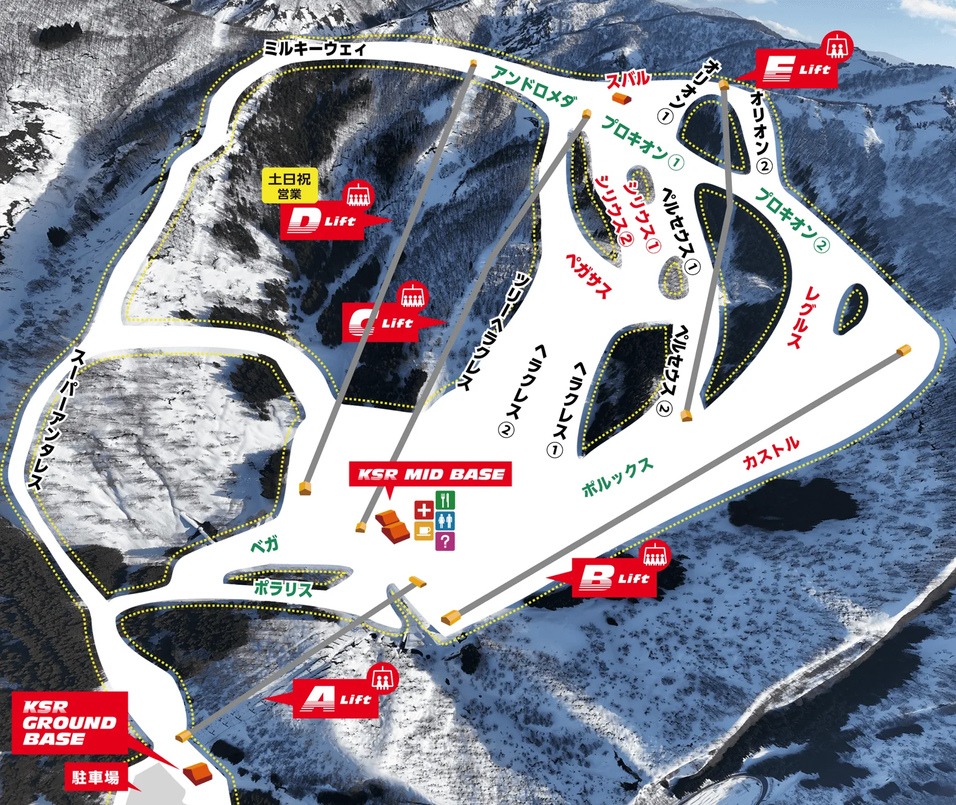
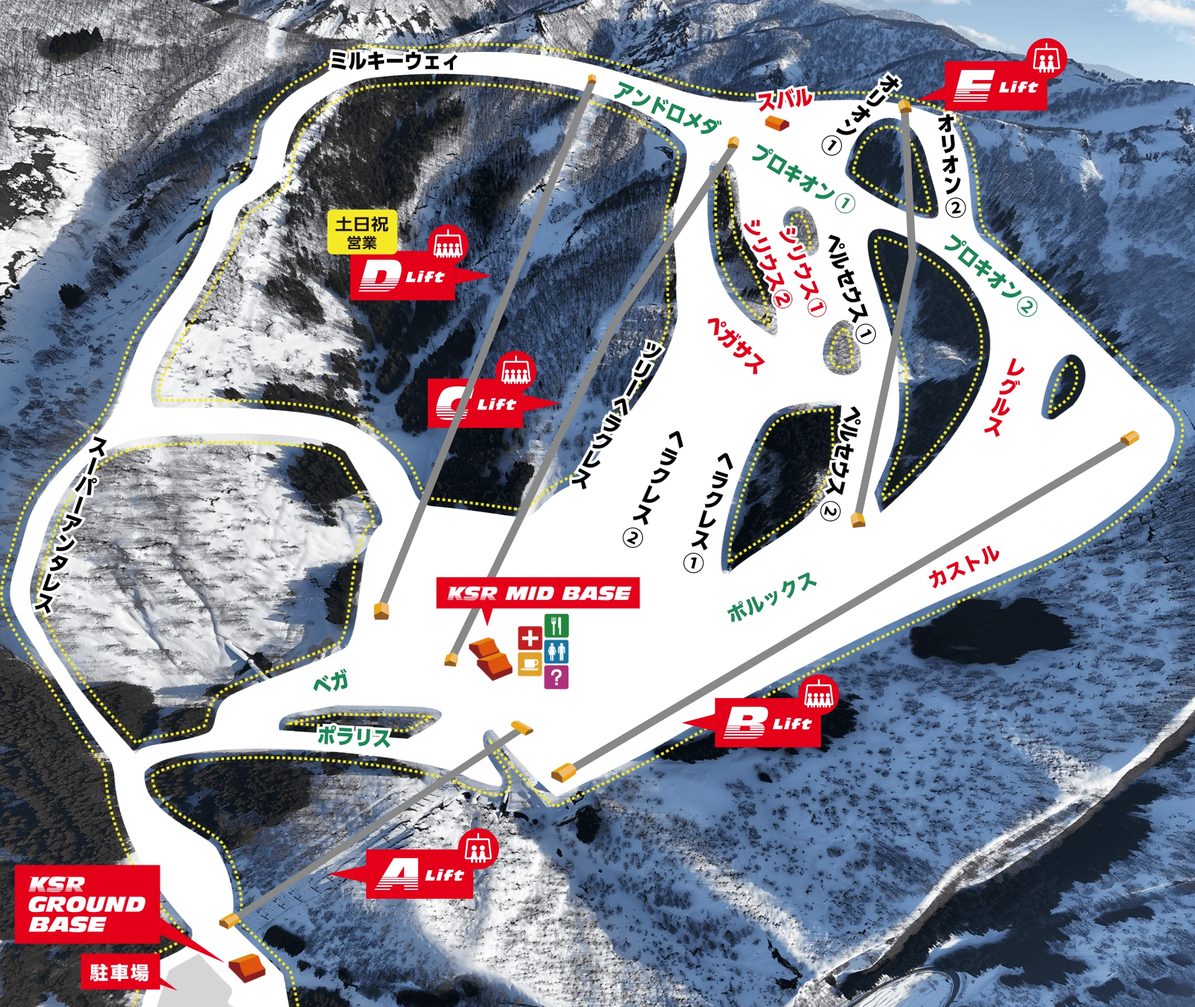
Resort maps: full-size (tap-to-open) course maps at official native resolution — original JPGs for 岩原/中里/GALA, webp q90 for 石打丸山 2481px, 苗場 PDF@300dpi 3224px, 神立 2000px; 800px thumbs unchanged

Changed region(s): [[0.2812, 0.2181, 0.3125, 0.2493]]

diff --git a/index.html b/index.html
@@ -560,10 +560,10 @@ Jay教練是我們這兩天玩的這麼愉快的大功臣！
           </dl>
           <p class="rs-fit"><span>適合</span>初次上板、希望在寬闊坡面穩定進階的學員與家庭</p>
           <figure class="rs-mapfig">
-            <a class="rs-mapthumb" href="img/maps/iwappara.webp" target="_blank" rel="noopener" aria-label="放大查看 岩原 雪道地圖（另開新視窗）">
+            <a class="rs-mapthumb" href="img/maps/iwappara.jpg" target="_blank" rel="noopener" aria-label="放大查看 岩原 雪道地圖（另開新視窗）">
               <img src="img/maps/iwappara-sm.webp" width="800" height="550" loading="lazy" decoding="async" alt="岩原スキー場 雪道地圖（官方）">
             </a>
-            <figcaption><span>圖片來源：<a href="https://iwa-ppara.com/gelande/" target="_blank" rel="noopener">岩原スキー場 官方網站</a></span><a class="rs-zoom" href="img/maps/iwappara.webp" target="_blank" rel="noopener" aria-hidden="true" tabindex="-1">放大地圖</a></figcaption>
+            <figcaption><span>圖片來源：<a href="https://iwa-ppara.com/gelande/" target="_blank" rel="noopener">岩原スキー場 官方網站</a></span><a class="rs-zoom" href="img/maps/iwappara.jpg" target="_blank" rel="noopener" aria-hidden="true" tabindex="-1">放大地圖</a></figcaption>
           </figure>
           <div class="rs-links">
             <a class="rs-link" href="https://iwa-ppara.com/" target="_blank" rel="noopener">官方網站</a>
@@ -623,10 +623,10 @@ Jay教練是我們這兩天玩的這麼愉快的大功臣！
           </dl>
           <p class="rs-fit"><span>適合</span>初次接觸雪地的家庭與兒童，以及希望縮短移動時間的旅客</p>
           <figure class="rs-mapfig">
-            <a class="rs-mapthumb" href="img/maps/nakazato.webp" target="_blank" rel="noopener" aria-label="放大查看 中里 雪道地圖（另開新視窗）">
+            <a class="rs-mapthumb" href="img/maps/nakazato.jpg" target="_blank" rel="noopener" aria-label="放大查看 中里 雪道地圖（另開新視窗）">
               <img src="img/maps/nakazato-sm.webp" width="800" height="497" loading="lazy" decoding="async" alt="湯沢中里スノーリゾート 雪道地圖（官方）">
             </a>
-            <figcaption><span>圖片來源：<a href="https://www.yuzawa-nakazato.com/winter/gerende/course/" target="_blank" rel="noopener">湯沢中里スノーリゾート 官方網站</a></span><a class="rs-zoom" href="img/maps/nakazato.webp" target="_blank" rel="noopener" aria-hidden="true" tabindex="-1">放大地圖</a></figcaption>
+            <figcaption><span>圖片來源：<a href="https://www.yuzawa-nakazato.com/winter/gerende/course/" target="_blank" rel="noopener">湯沢中里スノーリゾート 官方網站</a></span><a class="rs-zoom" href="img/maps/nakazato.jpg" target="_blank" rel="noopener" aria-hidden="true" tabindex="-1">放大地圖</a></figcaption>
           </figure>
           <div class="rs-links">
             <a class="rs-link" href="https://www.yuzawa-nakazato.com/winter/" target="_blank" rel="noopener">官方網站</a>
@@ -659,10 +659,10 @@ Jay教練是我們這兩天玩的這麼愉快的大功臣！
           <p class="rs-pos"><span lang="ja">ガーラ湯沢</span>・<span lang="en">GALA YUZAWA</span></p>
           <p class="rs-aside-text">與新幹線 GALA 湯澤站直結的雪場，全 16 條雪道；從越後湯澤站搭免費接駁巴士約 10 分鐘。僅供行程參考。</p>
           <figure class="rs-mapfig">
-            <a class="rs-mapthumb" href="img/maps/gala.webp" target="_blank" rel="noopener" aria-label="放大查看 GALA 湯澤 雪道地圖（另開新視窗）">
+            <a class="rs-mapthumb" href="img/maps/gala.jpg" target="_blank" rel="noopener" aria-label="放大查看 GALA 湯澤 雪道地圖（另開新視窗）">
               <img src="img/maps/gala-sm.webp" width="800" height="568" loading="lazy" decoding="async" alt="ガーラ湯沢 雪道地圖（官方）">
             </a>
-            <figcaption><span>圖片來源：<a href="https://gala.co.jp/winter/gelande/" target="_blank" rel="noopener">ガーラ湯沢 官方網站</a></span><a class="rs-zoom" href="img/maps/gala.webp" target="_blank" rel="noopener" aria-hidden="true" tabindex="-1">放大地圖</a></figcaption>
+            <figcaption><span>圖片來源：<a href="https://gala.co.jp/winter/gelande/" target="_blank" rel="noopener">ガーラ湯沢 官方網站</a></span><a class="rs-zoom" href="img/maps/gala.jpg" target="_blank" rel="noopener" aria-hidden="true" tabindex="-1">放大地圖</a></figcaption>
           </figure>
           <div class="rs-links">
             <a class="rs-link" href="https://gala.co.jp/winter/" target="_blank" rel="noopener">官方網站</a>
